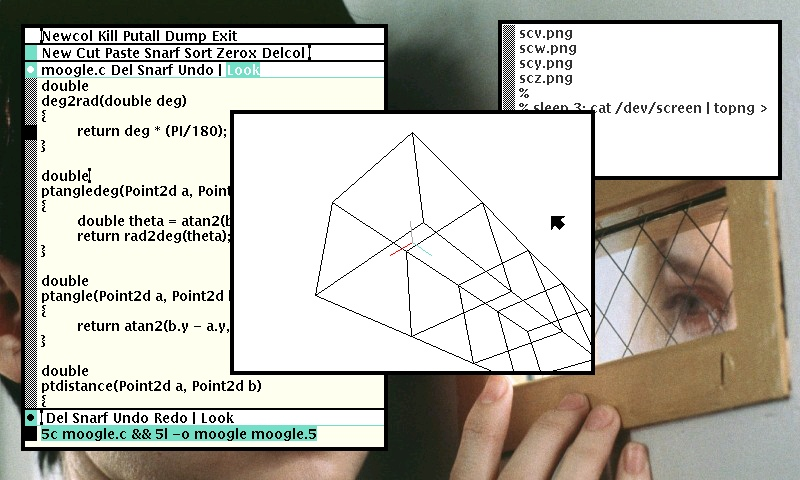
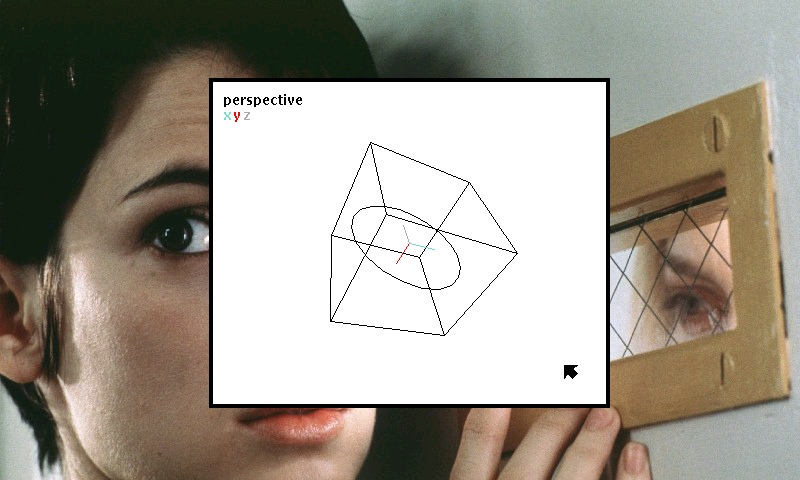
*

diff --git a/site/directory.html b/site/directory.html
@@ -1,1 +1,1 @@
-<!DOCTYPE html><html lang='en'><head><meta charset='utf-8'><meta name='description' content='The Directory is a curated list of timeless art.'/><meta name='thumbnail' content='https://wiki.xxiivv.com/media/services/thumbnail.jpg' /><link rel='alternate' type='application/rss+xml' title='RSS Feed' href='../links/rss.xml' /><link rel='stylesheet' type='text/css' href='../links/main.css'><link rel='shortcut icon' type='image/png' href='../media/services/icon.png'><title>XXIIVV — directory</title></head><body><header><a href='home.html'><img src='../media/icon/logo.svg' alt='XXIIVV'></a></header><nav><ul><li><a href='hundred_rabbits.html'>hundred rabbits</a></li><li><a href='devine_lu_linvega.html'>devine lu linvega/</a></li><li><a href='meta.html'>meta</a></li></ul><ul><li><a href='lifestyle.html'>lifestyle</a></li><li><a href='inventory.html'>inventory</a></li><li><a href='directory.html'>directory/</a></li><li><a href='goals.html'>goals</a></li><li><a href='faqs.html'>faqs</a></li></ul><ul><li><a href='bookmarks.html'>bookmarks</a></li><li><a href='readings.html'>readings</a></li></ul></nav><main><figure><img src='../media/diary/142.jpg' alt='田園に死す picture'/><figcaption>18X09 — 田園に死す</figcaption></figure><h2>The Directory is a curated list of timeless art.</h2><h3>books</h3><ul><li><b>Le Matin Des Magiciens</b>: L. Pauwels & J. Bergier. 1960</li><li><b>Le Città Invisibili</b>: Italo Calvino. 1972</li><li><b>Ficciones</b>: Jorge Luis Borges. 1941</li><li><b>No.44</b>: Mark Twain. 1916</li><li><b>Kybalion</b>: Three Initiates. 1908</li><li><b>La Ricerca della Lingua Perfetta</b>: Umberto Eco. 1993</li><li><b>The Handmaid's Tale</b>: Margaret Atwood. 1985</li><li><b>Flatland</b>: Edwin A. Abbott. 1884</li><li><b>Blumroch l'admirable</b>: Louis Pauwels. 1976</li><li><b>Cyberiada</b>: Stanisław Lem. 1965</li><li><b>Etidorhpa</b>: John Uri Lloyd. 1895</li><li><b>The Long Way</b>: Bernard Moitessier</li><li><b>Finite and Infinite Games</b>: James P. Carse</li><li><b>Ishmael</b>: Daniel Quinn. 1992</li></ul><h3>movies</h3><ul><li><b>Rosencrantz and Guildenstern Are Dead</b>: Tom Stoppard. 1990</li><li><b>Solaris</b>: Steven Soderbergh. 2002</li><li><b>Wristcutter</b>: A Love Story : Goran Dukic. 2006</li><li><b>The Rules of Attraction</b>: Roger Avary. 2002</li><li><b>Faust</b>: Jan Švankmajer. 1994</li><li><b>เรื่องรัก น้อยนิด มหาศา</b>: Pen-Ek Ratanaruang. 2003</li><li><b>My Dinner with Andre</b>: Louis Malle. 1981</li><li><b>Sedmikrásky</b>: Věra Chytilová. 1996</li><li><b>Valerie A Týden Divů</b>: Jaromil Jireš. 1970</li><li><b>Тіні забутих предків</b>: Sergei Parajanov. 1967</li><li><b>Na srebrnym globie</b>: Andrzej Żuławski. 1988</li><li><b>茶の味</b>: Katsuhito Ishii. 2004</li><li><b>Cat Soup</b>: Tatsuo Satō. 2001</li><li><b>Black Moon</b>: Louis Malle. 1975</li></ul><h3>albums</h3><ul><li><b>Weighing Souls With Sand</b>: Angelic Process. 2007</li><li><b>L'Univers De La Mer</b>: Dominique Guiot. 1978</li><li><b>Void</b>: Access to Arasaka. 2010</li><li><b>You Have Already Gone to the Other World</b>: A Hawk & A Hacksaw. 2013</li><li><b>Хтонь</b>: Сруб. 2015</li><li><b>顕信の一撃</b>: 友川カズキ. 2002</li><li><b>Noise Of The New</b>: Seven Ark. 2005</li><li><b>人間まがい</b>: 山崎ハコ. 1979</li><li><b>Le Soleil Noir</b>: Barbara. 1970</li><li><b>Virgo Rising</b>: Sixth June. 2017</li><li><b>Il y a</b>: 夢中夢. 2008</li><li><b>星のひとみ</b>: 黒百合姉妹. 1999</li><li><b>田園に死す</b>: J.A.シーザー. 2002</li><li><b>François</b>: Desireless. 1989</li><li><b>Zenith</b>: Molly Nilsson. 2015</li><li><b>Head over Heels</b>: Cocteau Twins. 1983</li></ul><h3>comics</h3><ul><li><b>Brüsel</b>: Schuiten & Peeters. 1992</li><li><b>ブラム</b>: 弐瓶勉. 1998</li><li><b>風の谷のナウシカ</b>: 宮崎駿. 1982</li><li><b>おやすみプンプン</b>: 浅野いにお. 2007</li><li><b>うずまき</b>: 伊藤潤二. 1998</li><li><b>Duck, Death and the Tulip</b>: Wolf Erlbruch. 2007</li><li><b>Wandering Island</b>: Kenji Tsuruta</li></ul><h3>videogames</h3><ul><li><b>Eve Online</b>: CCP Games. 2003</li><li><b>Jet Set Radio Future</b>: Smilebit. 2002</li><li><b>Final Fantasy Tactics Advance</b>: Square. 2003</li><li><b>Quake 3</b>: Id. 1999</li><li><b>Drowned God</b>: Inscape. 1997</li><li><b>Ikaruga</b>: Treasure. 2001</li><li><b>Journey</b>: ThatGameCompany. 2012</li><li><b>MDK</b>: Shiny. 1997</li><li><b>Riven</b>: Cyan Interactive. 1997</li></ul><figure><img src='../media/diary/230.jpg' alt='春野美子「茶の味」 picture'/><figcaption>17A03 — 春野美子「茶の味」</figcaption></figure><p><i>incoming(3)</i>: <a href='old_cities.html'>old cities</a> <a href='readings.html'>readings</a> <a href='devine_lu_linvega.html'>devine lu linvega</a> </p><p><i>Last update on <a href='tracker.html'>18X09</a>, edited 2 times. +13/11fh</i><code style='float:right; font-size:80%'>○○○○●○</code></p></main><footer><a href='https://creativecommons.org/licenses/by-nc-sa/4.0'><img src='../media/icon/cc.svg'/></a><a href='http://webring.xxiivv.com/'><img src='../media/icon/rotonde.svg'/></a><a href='https://merveilles.town/@neauoire'><img src='../media/icon/merveilles.svg'/></a><a href='https://github.com/neauoire'><img src='../media/icon/github.png' alt='github'/></a><span><a href='devine_lu_linvega.html'>Devine Lu Linvega</a> © 2020 — <a href='about.html'>BY-NC-SA 4.0</a></span></footer></body></html>
+<!DOCTYPE html><html lang='en'><head><meta charset='utf-8'><meta name='description' content='The Directory is a curated list of timeless art.'/><meta name='thumbnail' content='https://wiki.xxiivv.com/media/services/thumbnail.jpg' /><link rel='alternate' type='application/rss+xml' title='RSS Feed' href='../links/rss.xml' /><link rel='stylesheet' type='text/css' href='../links/main.css'><link rel='shortcut icon' type='image/png' href='../media/services/icon.png'><title>XXIIVV — directory</title></head><body><header><a href='home.html'><img src='../media/icon/logo.svg' alt='XXIIVV'></a></header><nav><ul><li><a href='hundred_rabbits.html'>hundred rabbits</a></li><li><a href='devine_lu_linvega.html'>devine lu linvega/</a></li><li><a href='meta.html'>meta</a></li></ul><ul><li><a href='lifestyle.html'>lifestyle</a></li><li><a href='inventory.html'>inventory</a></li><li><a href='directory.html'>directory/</a></li><li><a href='goals.html'>goals</a></li><li><a href='faqs.html'>faqs</a></li></ul><ul><li><a href='bookmarks.html'>bookmarks</a></li><li><a href='readings.html'>readings</a></li></ul></nav><main><figure><img src='../media/diary/142.jpg' alt='田園に死す picture'/><figcaption>18X09 — 田園に死す</figcaption></figure><h2>The Directory is a curated list of timeless art.</h2><h3>books</h3><ul><li><b>Le Matin Des Magiciens</b>: L. Pauwels & J. Bergier. 1960</li><li><b>Le Città Invisibili</b>: Italo Calvino. 1972</li><li><b>Ficciones</b>: Jorge Luis Borges. 1941</li><li><b>No.44</b>: Mark Twain. 1916</li><li><b>Kybalion</b>: Three Initiates. 1908</li><li><b>La Ricerca della Lingua Perfetta</b>: Umberto Eco. 1993</li><li><b>The Handmaid's Tale</b>: Margaret Atwood. 1985</li><li><b>Flatland</b>: Edwin A. Abbott. 1884</li><li><b>Blumroch l'admirable</b>: Louis Pauwels. 1976</li><li><b>Cyberiada</b>: Stanisław Lem. 1965</li><li><b>Etidorhpa</b>: John Uri Lloyd. 1895</li><li><b>The Long Way</b>: Bernard Moitessier</li><li><b>Finite and Infinite Games</b>: James P. Carse</li><li><b>Ishmael</b>: Daniel Quinn. 1992</li></ul><h3>movies</h3><ul><li><b>Rosencrantz and Guildenstern Are Dead</b>: Tom Stoppard. 1990</li><li><b>Solaris</b>: Steven Soderbergh. 2002</li><li><b>Wristcutter</b>: A Love Story : Goran Dukic. 2006</li><li><b>The Rules of Attraction</b>: Roger Avary. 2002</li><li><b>Faust</b>: Jan Švankmajer. 1994</li><li><b>เรื่องรัก น้อยนิด มหาศา</b>: Pen-Ek Ratanaruang. 2003</li><li><b>My Dinner with Andre</b>: Louis Malle. 1981</li><li><b>Sedmikrásky</b>: Věra Chytilová. 1996</li><li><b>Valerie A Týden Divů</b>: Jaromil Jireš. 1970</li><li><b>Тіні забутих предків</b>: Sergei Parajanov. 1967</li><li><b>Na srebrnym globie</b>: Andrzej Żuławski. 1988</li><li><b>茶の味</b>: Katsuhito Ishii. 2004</li><li><b>Cat Soup</b>: Tatsuo Satō. 2001</li><li><b>Black Moon</b>: Louis Malle. 1975</li></ul><h3>albums</h3><ul><li><b>Weighing Souls With Sand</b>: Angelic Process. 2007</li><li><b>L'Univers De La Mer</b>: Dominique Guiot. 1978</li><li><b>Void</b>: Access to Arasaka. 2010</li><li><b>You Have Already Gone to the Other World</b>: A Hawk & A Hacksaw. 2013</li><li><b>Хтонь</b>: Сруб. 2015</li><li><b>顕信の一撃</b>: 友川カズキ. 2002</li><li><b>Noise Of The New</b>: Seven Ark. 2005</li><li><b>人間まがい</b>: 山崎ハコ. 1979</li><li><b>Le Soleil Noir</b>: Barbara. 1970</li><li><b>Virgo Rising</b>: Sixth June. 2017</li><li><b>Il y a</b>: 夢中夢. 2008</li><li><b>星のひとみ</b>: 黒百合姉妹. 1999</li><li><b>田園に死す</b>: J.A.シーザー. 2002</li><li><b>François</b>: Desireless. 1989</li><li><b>Zenith</b>: Molly Nilsson. 2015</li><li><b>Feindflug</b>: Volk und Armee. 2005</li><li><b>Head over Heels</b>: Cocteau Twins. 1983</li></ul><h3>comics</h3><ul><li><b>Brüsel</b>: Schuiten & Peeters. 1992</li><li><b>ブラム</b>: 弐瓶勉. 1998</li><li><b>風の谷のナウシカ</b>: 宮崎駿. 1982</li><li><b>おやすみプンプン</b>: 浅野いにお. 2007</li><li><b>うずまき</b>: 伊藤潤二. 1998</li><li><b>Duck, Death and the Tulip</b>: Wolf Erlbruch. 2007</li><li><b>Wandering Island</b>: Kenji Tsuruta</li></ul><h3>videogames</h3><ul><li><b>Eve Online</b>: CCP Games. 2003</li><li><b>Jet Set Radio Future</b>: Smilebit. 2002</li><li><b>Final Fantasy Tactics Advance</b>: Square. 2003</li><li><b>Quake 3</b>: Id. 1999</li><li><b>Drowned God</b>: Inscape. 1997</li><li><b>Ikaruga</b>: Treasure. 2001</li><li><b>Journey</b>: ThatGameCompany. 2012</li><li><b>MDK</b>: Shiny. 1997</li><li><b>Riven</b>: Cyan Interactive. 1997</li></ul><figure><img src='../media/diary/230.jpg' alt='春野美子「茶の味」 picture'/><figcaption>17A03 — 春野美子「茶の味」</figcaption></figure><p><i>incoming(3)</i>: <a href='old_cities.html'>old cities</a> <a href='readings.html'>readings</a> <a href='devine_lu_linvega.html'>devine lu linvega</a> </p><p><i>Last update on <a href='tracker.html'>18X09</a>, edited 2 times. +13/11fh</i><code style='float:right; font-size:80%'>○○○○●○</code></p></main><footer><a href='https://creativecommons.org/licenses/by-nc-sa/4.0'><img src='../media/icon/cc.svg'/></a><a href='http://webring.xxiivv.com/'><img src='../media/icon/rotonde.svg'/></a><a href='https://merveilles.town/@neauoire'><img src='../media/icon/merveilles.svg'/></a><a href='https://github.com/neauoire'><img src='../media/icon/github.png' alt='github'/></a><span><a href='devine_lu_linvega.html'>Devine Lu Linvega</a> © 2020 — <a href='about.html'>BY-NC-SA 4.0</a></span></footer></body></html>

diff --git a/site/moogle.html b/site/moogle.html
@@ -1,9 +1,11 @@
 <!DOCTYPE html><html lang='en'><head><meta charset='utf-8'><meta name='description' content='Moogle is a 3D wireframe toolkit for Plan9.'/><meta name='thumbnail' content='https://wiki.xxiivv.com/media/services/thumbnail.jpg' /><link rel='alternate' type='application/rss+xml' title='RSS Feed' href='../links/rss.xml' /><link rel='stylesheet' type='text/css' href='../links/main.css'><link rel='shortcut icon' type='image/png' href='../media/services/icon.png'><title>XXIIVV — moogle</title></head><body><header><a href='home.html'><img src='../media/icon/logo.svg' alt='XXIIVV'></a></header><nav><ul><li><a href='illustration.html'>illustration</a></li><li><a href='physical.html'>physical</a></li><li><a href='utilities.html'>utilities/</a></li><li><a href='games.html'>games</a></li><li><a href='mobile.html'>mobile</a></li><li><a href='automatons.html'>automatons</a></li><li><a href='photography.html'>photography</a></li><li><a href='unreleased.html'>unreleased</a></li></ul><ul><li><a href='noodle.html'>noodle</a></li><li><a href='graf3dscene.html'>graf3dscene</a></li><li><a href='moogle.html'>moogle/</a></li><li><a href='lin6.html'>lin6</a></li><li><a href='chr9.html'>chr9</a></li><li><a href='nespaint.html'>nespaint</a></li><li><a href='enfer.html'>enfer</a></li><li><a href='zoe_format.html'>zoe format</a></li></ul><ul></ul></nav><main><figure><img src='../media/diary/727.jpg' alt='Pitch Yaw Roll picture'/><figcaption>20P12 — Pitch Yaw Roll</figcaption></figure><h2>Moogle is a 3D wireframe toolkit for Plan9.</h2><p>Basic geometry and wireframe drawing functions for <a href='plan9.html'>Plan9</a>, written in <a href='plan9_c.html'>Plan9 C</a>, inspired by <a href='graf3dscene.html'>Graf3DScene</a>.</p><pre>
+#include &lt;u.h&gt;
+#include &lt;libc.h&gt;
 #include &lt;draw.h&gt;
 #include &lt;event.h&gt;
-#include &lt;libc.h&gt;
 #include &lt;thread.h&gt;
-#include &lt;u.h&gt;
+
+/* 5c moogle.c && 5l -o moogle moogle.5 */
 
 Point center;
 Image *clrx, *clry, *clrz;
@@ -17,7 +19,7 @@ typedef struct {
 	double x;
 	double y;
 	double z;
-} Vertex;
+} Point3d;
 
 typedef struct {
 	int a;
@@ -25,16 +27,16 @@ typedef struct {
 } Edge;
 
 typedef struct {
-	Vertex position;
-	Vertex vertices[20];
+	Point3d position;
+	Point3d vertices[20];
 	int vertices_len;
 	Edge edges[20];
 	int edges_len;
 } Mesh;
 
 typedef struct {
-	Vertex origin;
-	Mesh meshes[20];
+	Point3d origin;
+	Mesh meshes[100];
 	int len;
 } Scene;
 
@@ -45,22 +47,22 @@ Pt2d(double x, double y) {
 	return (Point2d){x, y};
 }
 
-Vertex 
-Ver(double x, double y, double z) { 
-	return (Vertex){x, y, z}; 
+Point3d 
+Pt3d(double x, double y, double z) { 
+	return (Point3d){x, y, z}; 
 }
 
 Scene 
 Sc(double x, double y, double z) {
 	Scene s;
-	s.origin = Ver(x, y, z);
+	s.origin = Pt3d(x, y, z);
 	s.len = 0;
 	return s;
 }
 
-Vertex 
-vertexadd(Vertex *a, Vertex *b) {
-	return Ver(a->x + b->x, a->y + b->y, a->z + b->z);
+Point3d 
+pt3dadd(Point3d *a, Point3d *b) {
+	return Pt3d(a->x + b->x, a->y + b->y, a->z + b->z);
 }
 
 /* geometry */
@@ -103,12 +105,7 @@ rotpt(Point2d center, Point2d p0, double deg) {
 /* scene */
 
 void
-print_vertex(Vertex *vertex) {
-	print("[%d,%d,%d]\n", vertex->x, vertex->y, vertex->z);
-}
-
-void
-set_vertex(Vertex *vertex, double x, double y, double z) {
+set_vertex(Point3d *vertex, double x, double y, double z) {
 	vertex->x = x;
 	vertex->y = y;
 	vertex->z = z;
@@ -139,28 +136,28 @@ set_mesh(Scene *scene, Mesh mesh) {
 }
 
 void
-rotverx(Vertex *o, Vertex *v, double angle) {
+rotverx(Point3d *o, Point3d *v, double angle) {
 	Point2d r = rotpt(Pt2d(o->y, o->z), Pt2d(v->y, v->z), angle);
 	v->y = r.x;
 	v->z = r.y;
 }
 
 void 
-rotvery(Vertex *o, Vertex *v, double angle) {
+rotvery(Point3d *o, Point3d *v, double angle) {
 	Point2d r = rotpt(Pt2d(o->x, o->z), Pt2d(v->x, v->z), angle);
 	v->x = r.x;
 	v->z = r.y;
 }
 
 void
-rotverz(Vertex *o, Vertex *v, double angle) {
+rotverz(Point3d *o, Point3d *v, double angle) {
 	Point2d r = rotpt(Pt2d(o->x, o->y), Pt2d(v->x, v->y), angle);
 	v->x = r.x;
 	v->y = r.y;
 }
 
 void
-rotver(Vertex *o, Vertex *v, double pitch, double yaw, double roll) {
+rotver(Point3d *o, Point3d *v, double pitch, double yaw, double roll) {
 	rotverx(o, v, pitch);
 	rotvery(o, v, yaw);
 	rotverz(o, v, roll);
@@ -194,6 +191,22 @@ rotate(Mesh *mesh, double x, double y, double z) {
 	rotatez(mesh, z);
 }
 
+/* Primitives */
+
+void
+add_circle(Scene *scene, double x, double y, double z, double radius, int segments)
+{
+	Mesh m1 = scene->meshes[scene->len];
+	for(int i = 0; i < segments; i++){
+		add_vertex(&m1, 
+			x + radius * cos(2 * PI * i / segments), y, 
+			z + radius * sin(2 * PI * i / segments));
+		add_edge(&m1, i, (i + 1)%segments);
+	}
+	m1.position = Pt3d(x, y, z);
+	set_mesh(scene, m1);
+}
+
 void
 add_box(Scene *scene, double x, double y, double z, double width,
 						 double height, double depth) {
@@ -218,9 +231,7 @@ add_box(Scene *scene, double x, double y, double z, double width,
 	add_edge(&m1, 1, 5);
 	add_edge(&m1, 2, 6);
 	add_edge(&m1, 3, 7);
-	m1.position.x = x;
-	m1.position.y = y;
-	m1.position.z = z;
+	m1.position = Pt3d(x,y,z);
 	set_mesh(scene, m1);
 }
 
@@ -248,41 +259,51 @@ lineb(Image *dst, Point p0, Point p1, Image *src, Point sp) {
 }
 
 Point
-projectiso(Vertex v) {
+projectiso(Point3d v) {
 	double zoom = 5;
 	return Pt(center.x + zoom * v.x, center.y + zoom * v.y);
 }
 
 Point
-project(Vertex v) {
+project(Point3d v) {
 	double r = 300 / (v.z + 50);
 	return Pt(center.x + r * v.x, center.y + r * v.y);
 }
 
 void
 widget(Scene scene, double pitch, double yaw, double roll) {
-	Vertex c = Ver(0, 0, 0);
-	Vertex x = Ver(5, 0, 0);
-	Vertex y = Ver(0, 5, 0);
-	Vertex z = Ver(0, 0, 5);
+	Point3d c = Pt3d(0, 0, 0);
+	Point3d x = Pt3d(5, 0, 0);
+	Point3d y = Pt3d(0, 5, 0);
+	Point3d z = Pt3d(0, 0, 5);
 	rotver(&scene.origin, &x, pitch, yaw, roll);
 	rotver(&scene.origin, &y, pitch, yaw, roll);
 	rotver(&scene.origin, &z, pitch, yaw, roll);
 	lineb(screen, project(c), project(x), clrx, screen->r.min);
 	lineb(screen, project(c), project(y), clry, screen->r.min);
 	lineb(screen, project(c), project(z), clrz, screen->r.min);
+	string(screen, 
+		addpt(screen->r.min, Pt(10,10)), 
+		display->black, ZP, display->defaultfont, "perspective");
+	string(screen, 
+		addpt(screen->r.min, Pt(10,25)), 
+		clrx, ZP, display->defaultfont, "x");
+	string(screen, 
+		addpt(screen->r.min, Pt(20,25)), 
+		clry, ZP, display->defaultfont, "y");
+	string(screen, 
+		addpt(screen->r.min, Pt(30,25)), 
+		clrz, ZP, display->defaultfont, "z");
 }
 
 void
 render(Scene scene, double pitch, double yaw, double roll) {
-	/* Each mesh */
 	for (int i = 0; i < scene.len; i++) {
 		Mesh mesh = scene.meshes[i];
-		/* Each edge */
 		for (int j = 0; j < mesh.edges_len; j++) {
 			Edge *edge = &mesh.edges[j];
-			Vertex a = vertexadd(&mesh.vertices[edge->a], &mesh.position);
-			Vertex b = vertexadd(&mesh.vertices[edge->b], &mesh.position);
+			Point3d a = pt3dadd(&mesh.vertices[edge->a], &mesh.position);
+			Point3d b = pt3dadd(&mesh.vertices[edge->b], &mesh.position);
 			rotver(&scene.origin, &a, pitch, yaw, roll);
 			rotver(&scene.origin, &b, pitch, yaw, roll);
 			lineb(screen, project(a), project(b), display->black, screen->r.min);
@@ -313,11 +334,9 @@ main(int argc, char **argv) {
 	clrz = allocimage(display, Rect(0, 0, 1, 1), screen->chan, 1, 0xAAAAAAFF);
 
 	Scene s1 = Sc(0, 0, 0);
+	add_circle(&s1, 0, 0, 0, 10, 20);
 	add_box(&s1, 0, 0, 0, 10, 10, 10);
-	add_box(&s1, 20, 0, 0, 10, 10, 10);
-	add_box(&s1, 40, 0, 0, 10, 10, 10);
-	add_box(&s1, 60, 0, 0, 10, 10, 10);
-	render(s1, 35, 35, 35);
+	render(s1, 35, 25, 15);
 
 	/* Break on mouse3 */
 	for (;;) {
@@ -326,4 +345,5 @@ main(int argc, char **argv) {
 			break;
 	}
 }
-</pre><p>Found a mistake? Submit an <a href='https://github.com/XXIIVV/Oscean/edit/master/src/inc/moogle.htm'  target='_blank'>edit</a> to moogle.</p><figure><img src='../media/diary/725.jpg' alt='Wireframe engine on Plan9 picture'/><figcaption>20P01 — Wireframe engine on Plan9</figcaption></figure><p><i>incoming(1)</i>: <a href='graf3dscene.html'>graf3dscene</a> </p><p><i>Last update on <a href='tracker.html'>20P12</a>, edited 2 times. +12/14fh</i><code style='float:right; font-size:80%'>○○○○○●</code></p></main><footer><a href='https://creativecommons.org/licenses/by-nc-sa/4.0'><img src='../media/icon/cc.svg'/></a><a href='http://webring.xxiivv.com/'><img src='../media/icon/rotonde.svg'/></a><a href='https://merveilles.town/@neauoire'><img src='../media/icon/merveilles.svg'/></a><a href='https://github.com/neauoire'><img src='../media/icon/github.png' alt='github'/></a><span><a href='devine_lu_linvega.html'>Devine Lu Linvega</a> © 2020 — <a href='about.html'>BY-NC-SA 4.0</a></span></footer></body></html>
+</pre>
+<p>Found a mistake? Submit an <a href='https://github.com/XXIIVV/Oscean/edit/master/src/inc/moogle.htm'  target='_blank'>edit</a> to moogle.</p><figure><img src='../media/diary/725.jpg' alt='Wireframe engine on Plan9 picture'/><figcaption>20P01 — Wireframe engine on Plan9</figcaption></figure><p><i>incoming(1)</i>: <a href='graf3dscene.html'>graf3dscene</a> </p><p><i>Last update on <a href='tracker.html'>20P12</a>, edited 2 times. +12/14fh</i><code style='float:right; font-size:80%'>○○○○○●</code></p></main><footer><a href='https://creativecommons.org/licenses/by-nc-sa/4.0'><img src='../media/icon/cc.svg'/></a><a href='http://webring.xxiivv.com/'><img src='../media/icon/rotonde.svg'/></a><a href='https://merveilles.town/@neauoire'><img src='../media/icon/merveilles.svg'/></a><a href='https://github.com/neauoire'><img src='../media/icon/github.png' alt='github'/></a><span><a href='devine_lu_linvega.html'>Devine Lu Linvega</a> © 2020 — <a href='about.html'>BY-NC-SA 4.0</a></span></footer></body></html>

diff --git a/site/now.html b/site/now.html
@@ -1,2 +1,2 @@
-<!DOCTYPE html><html lang='en'><head><meta charset='utf-8'><meta name='description' content='The now page shows infographics of current activity.'/><meta name='thumbnail' content='https://wiki.xxiivv.com/media/services/thumbnail.jpg' /><link rel='alternate' type='application/rss+xml' title='RSS Feed' href='../links/rss.xml' /><link rel='stylesheet' type='text/css' href='../links/main.css'><link rel='shortcut icon' type='image/png' href='../media/services/icon.png'><title>XXIIVV — now</title></head><body><header><a href='home.html'><img src='../media/icon/logo.svg' alt='XXIIVV'></a></header><nav><ul><li><a href='hundred_rabbits.html'>hundred rabbits</a></li><li><a href='devine_lu_linvega.html'>devine lu linvega</a></li><li><a href='meta.html'>meta/</a></li></ul><ul><li><a href='tracker.html'>tracker</a></li><li><a href='journal.html'>journal</a></li><li><a href='calendar.html'>calendar</a></li><li><a href='identity.html'>identity</a></li><li><a href='index.html'>index</a></li><li><a href='now.html'>now/</a></li></ul><ul></ul></nav><main><h2>The now page shows infographics of current activity.</h2><p>The history of project activity is recorded with the <a href='horaire.html'>horaire time-tracker</a>, to find the complete history of activity, visit the <a href='tracker.html'>tracker</a>.</p><p><i>incoming(1)</i>: <a href='tracker.html'>tracker</a> </p><p>Distribution of <b>322 hours over 28 projects</b>, a change of -54 hours and 4 projects since the prevratioious period of 56 days.</p><ul style='columns:2'><li><a href='moogle.html'>moogle</a> 1.86&#37; </li><li><a href='chr9.html'>chr9</a> 1.86&#37; </li><li><a href='nasu.html'>nasu</a> 1.86&#37; <i style='color:red'>-0.3&#37;</i></li><li><a href='plan9_c.html'>plan9 c</a> 1.55&#37; </li><li><a href='postscript.html'>postscript</a> 1.86&#37; </li><li><a href='computer.html'>computer</a> 2.17&#37; </li><li><a href='plan9_clock.html'>plan9 clock</a> 4.97&#37; </li><li><a href='acme.html'>acme</a> 2.17&#37; </li><li><a href='rio.html'>rio</a> 2.17&#37; </li><li><a href='plan9.html'>plan9</a> 4.97&#37; </li><li><a href='pino.html'>pino</a> 2.48&#37; <i style='color:red'>-1.8&#37;</i></li><li><a href='lin6.html'>lin6</a> 0.93&#37; </li><li><a href='lietal.html'>lietal</a> 6.52&#37; </li><li><a href='oscean.html'>oscean</a> 1.24&#37; <i style='color:red'>-0.9&#37;</i></li><li><a href='orca.html'>orca</a> 2.48&#37; <i style='color:red'>-1.0&#37;</i></li><li><a href='quotes.html'>quotes</a> 1.24&#37; </li><li><a href='neralie.html'>neralie</a> 5.90&#37; <i style='color:#42ae92'>+2.4&#37;</i></li><li><a href='ethics.html'>ethics</a> 11.49&#37; </li><li><a href='canada.html'>canada</a> 1.86&#37; </li><li><a href='nautical.html'>nautical</a> 4.97&#37; </li><li><a href='shimoda.html'>shimoda</a> 7.76&#37; </li><li><a href='unix.html'>unix</a> 6.52&#37; </li><li><a href='japan.html'>japan</a> 1.24&#37; </li><li><a href='nespaint.html'>nespaint</a> 12.73&#37; <i style='color:red'>-4.3&#37;</i></li><li><a href='webring.html'>webring</a> 1.24&#37; </li><li><a href='personal.html'>personal</a> 1.86&#37; </li><li><a href='arvelie.html'>arvelie</a> 1.86&#37; </li><li><a href='graf3dscene.html'>graf3dscene</a> 2.17&#37; <i style='color:red'>-1.8&#37;</i></li></ul><p>Last generated on Sun Aug  9 16:13:52 2020
+<!DOCTYPE html><html lang='en'><head><meta charset='utf-8'><meta name='description' content='The now page shows infographics of current activity.'/><meta name='thumbnail' content='https://wiki.xxiivv.com/media/services/thumbnail.jpg' /><link rel='alternate' type='application/rss+xml' title='RSS Feed' href='../links/rss.xml' /><link rel='stylesheet' type='text/css' href='../links/main.css'><link rel='shortcut icon' type='image/png' href='../media/services/icon.png'><title>XXIIVV — now</title></head><body><header><a href='home.html'><img src='../media/icon/logo.svg' alt='XXIIVV'></a></header><nav><ul><li><a href='hundred_rabbits.html'>hundred rabbits</a></li><li><a href='devine_lu_linvega.html'>devine lu linvega</a></li><li><a href='meta.html'>meta/</a></li></ul><ul><li><a href='tracker.html'>tracker</a></li><li><a href='journal.html'>journal</a></li><li><a href='calendar.html'>calendar</a></li><li><a href='identity.html'>identity</a></li><li><a href='index.html'>index</a></li><li><a href='now.html'>now/</a></li></ul><ul></ul></nav><main><h2>The now page shows infographics of current activity.</h2><p>The history of project activity is recorded with the <a href='horaire.html'>horaire time-tracker</a>, to find the complete history of activity, visit the <a href='tracker.html'>tracker</a>.</p><p><i>incoming(1)</i>: <a href='tracker.html'>tracker</a> </p><p>Distribution of <b>322 hours over 28 projects</b>, a change of -54 hours and 4 projects since the prevratioious period of 56 days.</p><ul style='columns:2'><li><a href='moogle.html'>moogle</a> 1.86&#37; </li><li><a href='chr9.html'>chr9</a> 1.86&#37; </li><li><a href='nasu.html'>nasu</a> 1.86&#37; <i style='color:red'>-0.3&#37;</i></li><li><a href='plan9_c.html'>plan9 c</a> 1.55&#37; </li><li><a href='postscript.html'>postscript</a> 1.86&#37; </li><li><a href='computer.html'>computer</a> 2.17&#37; </li><li><a href='plan9_clock.html'>plan9 clock</a> 4.97&#37; </li><li><a href='acme.html'>acme</a> 2.17&#37; </li><li><a href='rio.html'>rio</a> 2.17&#37; </li><li><a href='plan9.html'>plan9</a> 4.97&#37; </li><li><a href='pino.html'>pino</a> 2.48&#37; <i style='color:red'>-1.8&#37;</i></li><li><a href='lin6.html'>lin6</a> 0.93&#37; </li><li><a href='lietal.html'>lietal</a> 6.52&#37; </li><li><a href='oscean.html'>oscean</a> 1.24&#37; <i style='color:red'>-0.9&#37;</i></li><li><a href='orca.html'>orca</a> 2.48&#37; <i style='color:red'>-1.0&#37;</i></li><li><a href='quotes.html'>quotes</a> 1.24&#37; </li><li><a href='neralie.html'>neralie</a> 5.90&#37; <i style='color:#42ae92'>+2.4&#37;</i></li><li><a href='ethics.html'>ethics</a> 11.49&#37; </li><li><a href='canada.html'>canada</a> 1.86&#37; </li><li><a href='nautical.html'>nautical</a> 4.97&#37; </li><li><a href='shimoda.html'>shimoda</a> 7.76&#37; </li><li><a href='unix.html'>unix</a> 6.52&#37; </li><li><a href='japan.html'>japan</a> 1.24&#37; </li><li><a href='nespaint.html'>nespaint</a> 12.73&#37; <i style='color:red'>-4.3&#37;</i></li><li><a href='webring.html'>webring</a> 1.24&#37; </li><li><a href='personal.html'>personal</a> 1.86&#37; </li><li><a href='arvelie.html'>arvelie</a> 1.86&#37; </li><li><a href='graf3dscene.html'>graf3dscene</a> 2.17&#37; <i style='color:red'>-1.8&#37;</i></li></ul><p>Last generated on Sun Aug  9 23:16:06 2020
 (Japan).</p></main><footer><a href='https://creativecommons.org/licenses/by-nc-sa/4.0'><img src='../media/icon/cc.svg'/></a><a href='http://webring.xxiivv.com/'><img src='../media/icon/rotonde.svg'/></a><a href='https://merveilles.town/@neauoire'><img src='../media/icon/merveilles.svg'/></a><a href='https://github.com/neauoire'><img src='../media/icon/github.png' alt='github'/></a><span><a href='devine_lu_linvega.html'>Devine Lu Linvega</a> © 2020 — <a href='about.html'>BY-NC-SA 4.0</a></span></footer></body></html>

diff --git a/src/inc/moogle.htm b/src/inc/moogle.htm
@@ -199,11 +199,11 @@ add_circle(Scene *scene, double x, double y, double z, double radius, int segmen
 	Mesh m1 = scene->meshes[scene->len];
 	for(int i = 0; i < segments; i++){
 		add_vertex(&m1, 
-			x+radius*cos(2*PI*i/segments), y, 
-			z+radius*sin(2*PI*i/segments));
-		add_edge(&m1, i, (i+1)%segments);
+			x + radius * cos(2 * PI * i / segments), y, 
+			z + radius * sin(2 * PI * i / segments));
+		add_edge(&m1, i, (i + 1)%segments);
 	}
-	m1.position = Pt3d(x,y,z);
+	m1.position = Pt3d(x, y, z);
 	set_mesh(scene, m1);
 }
 
